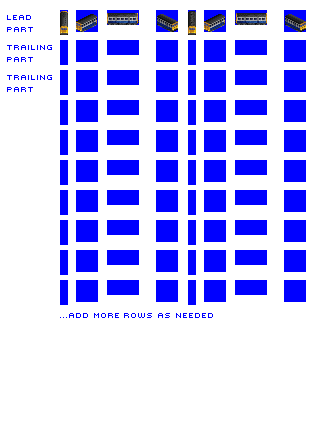
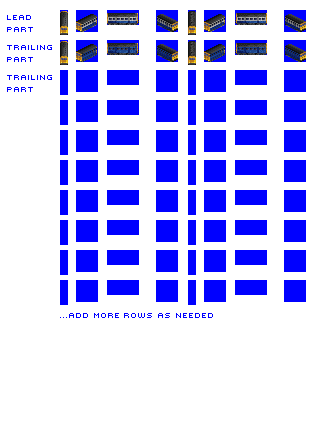
Change: Slammer shows mail / freight graphics variant

Changed region(s): [[0.4658, 0.0886, 0.8385, 0.1477], [0.1863, 0.0886, 0.4348, 0.1477], [0.8696, 0.0886, 0.9627, 0.1477]]

diff --git a/src/vehicles/slammer.py b/src/vehicles/slammer.py
@@ -16,7 +16,7 @@ vehicle = DieselRailcar(id = 'slammer',
             vehicle_length = 8,
             buy_menu_width = 32,
             loading_speed = 20,
-            intro_date = 1980,
+            intro_date = 1960,
             str_type_info = 'COASTER',
             vehicle_life = 40,
             graphics_status = '',)
@@ -25,6 +25,6 @@ vehicle.add_model_variant(intro_date=0,
                        end_date=1986,
                        spritesheet_suffix=0)
 
-vehicle.add_model_variant(intro_date=1985,
+vehicle.add_model_variant(intro_date=1986,
                        end_date=global_constants.max_game_date,
                        spritesheet_suffix=1)

diff --git a/src/train.py b/src/train.py
@@ -335,7 +335,7 @@ class DieselRailcar(Train):
     """
     def __init__(self, id, **kwargs):
         super(DieselRailcar, self).__init__(id, **kwargs)
-        self.template = 'train.pynml'
+        self.template = 'diesel_railcar.pynml'
         self.default_cargo_capacities = [0]
         self.class_refit_groups = ['pax', 'mail', 'express_freight']
         self.label_refits_allowed = [] # no specific labels needed
